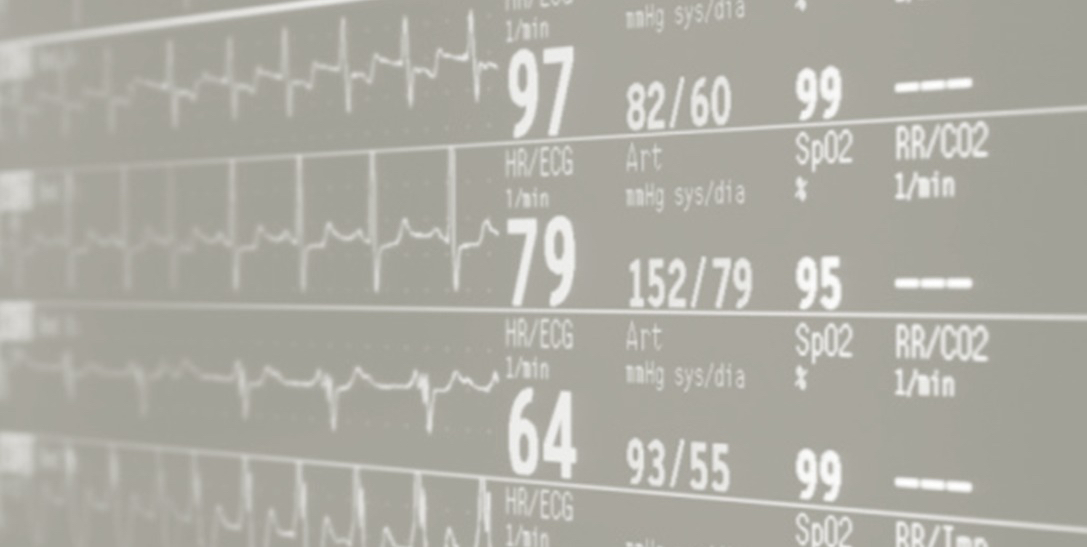
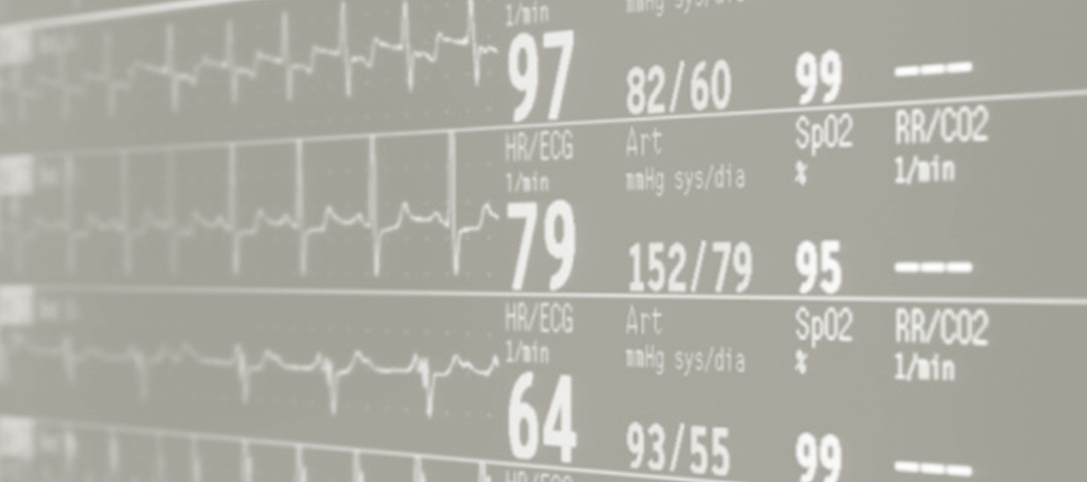
edit images height and adjust footer

diff --git a/index.html b/index.html
@@ -16,128 +16,130 @@
         <link rel="stylesheet" href="https://cdnjs.cloudflare.com/ajax/libs/font-awesome/4.7.0/css/font-awesome.min.css">
     </head>
     <body>
-        <div id="header-right" class="login">
-            <a href="http://optimizitmedical.com/Users/Account/LogOn?ReturnUrl=%2F">Customer Login</a>
-        </div>
-        <div id="header-left" class="login">
-            <a href="https://online.optimizitmedical.com/Account/LogOn?ReturnUrl=%2f">Staff Login</a>
-        </div>
-        <div id="header">
-            <a href="/"><img src="images/logo.svg" class="image-responsive center-block" alt="logo"></a>
-        </div>
-        <nav id="navbar">
-            <div class="navbar-header">
-                <button type="button" class="navbar-toggle" data-toggle="collapse" data-target="#menu-navbar">
-                    <span class="icon-bar"></span>
-                    <span class="icon-bar"></span>
-                    <span class="icon-bar"></span>                        
-                </button>
+        <div id="wrapper">
+            <div id="header-right" class="login">
+                <a href="http://optimizitmedical.com/Users/Account/LogOn?ReturnUrl=%2F">Customer Login</a>
             </div>
-            <div id="menu-navbar" class="collapse navbar-collapse">
-                <ul id="navbar-list" class="nav nav-justified">
-                    <li><a id="home-link" class="nav-links"  tabindex="-1">Home</a></li>
-                    <li><a id="services-link" class="nav-links" tabindex="-1">Services</a></li>
-                    <li><a id="about-link" class="nav-links" tabindex="-1">About</a></li>
-                    <li><a id="contact-link" class="nav-links" tabindex="-1">Contact</a></li>
-                </ul>
+            <div id="header-left" class="login">
+                <a href="https://online.optimizitmedical.com/Account/LogOn?ReturnUrl=%2f">Staff Login</a>
             </div>
-        </nav>
-        <div class="slideshow-container">
-            <div id="carousel" class="carousel slide" data="carousel" data-interval="false">
-                <div class="carousel-inner">
-                    <div class="item active">
-                        <div class="section">
-                            <h1>WHAT WE OFFER</h1>
-                            <div class="container">
-                                <div class="col-xs-12">
-                                    <p>Welcome to Optimizit Medical Services. We provide biomedical services to a range of clinics and centres. Our services include:</p>
-                                    <ul id="home-list">
-                                        <li>Annual PM and Calibrations</li>
-                                        <li>Device Accreditation &amp; Acceptance</li>
-                                        <li>Service Calls</li>
-                                        <li>On-Site Consultation</li>
-                                        <li>Staff In-Service</li>
-                                    </ul>
-                                    <p>If you have any questions regarding what we do, please <span id="contact-inline-link">contact us</span>.</p>
-                                </div>
-                            </div>
-                        </div>
-                        <img src="images/Home.jpg" alt="Home">
-                    </div>
-                    <div class="item">
-                        <div id="services" class="section">
-                            <h1>SERVICES</h1>
-                            <div class="container">
-                                <div class="col-xs-12 col-md-6 service-block service-block-left">
-                                    <img src="images/clipboard.svg" class="service-icon" alt="consultation">
-                                    <h3>CONSULTATION &amp; EVALUATION</h3>
-                                    <p>Our team has knowledge and experiences throughout the medical field; from ER equipment to OR equipment, to ICU equipment and more. We offer our expertise before we perform any work. We assess each situation differently and communicate with you every step of the way.</p>
-                                </div>
-                                <div class="col-xs-12 col-md-6 service-block service-block-right">
-                                    <img src="images/screw.svg" class="service-icon" alt="consultation">
-                                    <h3>PREVENTATIVE MAINTENANCE &amp; EQUIPMENT REPAIR</h3>
-                                    <p>Our Biomedical Engineering Technologists are trained in Preventative Maintenance and Corrective Work. Preventative Maintenance can be annual device inspection and/or new device acceptance. Corrective work is fancy for 'repair'. 
-                                        <br /> <br />
-                                        In emergency and work cases where you need a device accepted or repaired, we will do what we can to get the job done as fast and as safe as possible.</p>
-                                </div>
-                            </div>
-                        </div>
-                        <img src="images/Services.jpeg" alt="Services">
-                    </div>
-                    <div class="item">
-                        <div class="section">
-                            <h1>ABOUT US</h1>
-                            <div class="container">
-                                <div class="col-xs-12">
-                                    <p>Established in 1998, Optimizit Medical has been providing Biomedical Engineering services to medical clinics throughout Western Canada.</p>
-                                </div>
-                            </div>
-                        </div>
-                        <img src="images/About.jpeg" alt="About">
-                    </div>
-                    <div class="item">
-                        <div id="contact" class="section">
-                            <h1>GET IN TOUCH</h1>
-                            <div class="container">
-                                <div class="col-xs-12 col-md-6">
-                                    <div id="contact-info">
-                                        <h2><span class="contact-label">CALL US:</span><br /> &emsp;&emsp;<a href="tel: 1-604-992-1147" id="link-no-decoration">+1 - 778 - 385 - 6264</a>
-                                        </h2>
-                                        <h2>
-                                            <span class="contact-label">GENERAL INQUIRIES:</span><br /> &emsp;&emsp; <a href="mailto:info@optimizitmedical.com ">info@optimizitmedical.com</a>
-                                        </h2>
-                                        <h2>
-                                            <span class="contact-label">SERVICE INQUIRIES:</span><br /> &emsp;&emsp; <a href="mailto:service@optimizitmedical.com ">service@optimizitmedical.com</a>
-                                        </h2>
+            <div id="header">
+                <a href="/"><img src="images/logo.svg" class="image-responsive center-block" alt="logo"></a>
+            </div>
+            <nav id="navbar">
+                <div class="navbar-header">
+                    <button type="button" class="navbar-toggle" data-toggle="collapse" data-target="#menu-navbar">
+                        <span class="icon-bar"></span>
+                        <span class="icon-bar"></span>
+                        <span class="icon-bar"></span>                        
+                    </button>
+                </div>
+                <div id="menu-navbar" class="collapse navbar-collapse">
+                    <ul id="navbar-list" class="nav nav-justified">
+                        <li><a id="home-link" class="nav-links"  tabindex="-1">Home</a></li>
+                        <li><a id="services-link" class="nav-links" tabindex="-1">Services</a></li>
+                        <li><a id="about-link" class="nav-links" tabindex="-1">About</a></li>
+                        <li><a id="contact-link" class="nav-links" tabindex="-1">Contact</a></li>
+                    </ul>
+                </div>
+            </nav>
+            <div class="slideshow-container">
+                <div id="carousel" class="carousel slide" data="carousel" data-interval="false">
+                    <div class="carousel-inner">
+                        <div class="item active">
+                            <div class="section">
+                                <h1>WHAT WE OFFER</h1>
+                                <div class="container">
+                                    <div class="col-xs-12">
+                                        <p>Welcome to Optimizit Medical Services. We provide biomedical services to a range of clinics and centres. Our services include:</p>
+                                        <ul id="home-list">
+                                            <li>Annual PM and Calibrations</li>
+                                            <li>Device Accreditation &amp; Acceptance</li>
+                                            <li>Service Calls</li>
+                                            <li>On-Site Consultation</li>
+                                            <li>Staff In-Service</li>
+                                        </ul>
+                                        <p>If you have any questions regarding what we do, please <span id="contact-inline-link">contact us</span>.</p>
                                     </div>
                                 </div>
-                                <div class="col-xs-12 col-md-6">
-                                    <form action="//flipmail.co/api/APKdq4Se8T40ve8Sux6v" method="post">
-                                        <div class="form-group">
-                                            <input type="text" class="form-control" id="InputName" name="name" placeholder="Name" required>
-                                        </div>
-                                        <div class="form-group">
-                                            <input type="email" class="form-control" id="InputEmail" name="email" placeholder="Email" required>
-                                            <input type="hidden" name="_replyto" value="%email">
-                                            <input type="hidden" name="_after" value="confirmation.html">
-                                            <input type="text" name="_honey" value="" style="display:none">
-                                        </div>
-                                        <div class="form-group">
-                                            <input type="text" class="form-control" id="InputSubject" name="_subject" placeholder="Subject" required>
-                                        </div>
-                                        <div class="form-group">
-                                            <textarea class="form-control" rows="3" id="InputMessage" name="message" placeholder="Type your message here" required></textarea >
-                                        </div>
-                                        <button type="submit" id="submit-button">SUBMIT</button>
-                                    </form>
+                            </div>
+                            <img src="images/Home.jpg" alt="Home">
+                        </div>
+                        <div class="item">
+                            <div id="services" class="section">
+                                <h1>SERVICES</h1>
+                                <div class="container">
+                                    <div class="col-xs-12 col-md-6 service-block service-block-left">
+                                        <img src="images/clipboard.svg" class="service-icon" alt="consultation">
+                                        <h3>CONSULTATION &amp; EVALUATION</h3>
+                                        <p>Our team has knowledge and experiences throughout the medical field; from ER equipment to OR equipment, to ICU equipment and more. We offer our expertise before we perform any work. We assess each situation differently and communicate with you every step of the way.</p>
+                                    </div>
+                                    <div class="col-xs-12 col-md-6 service-block service-block-right">
+                                        <img src="images/screw.svg" class="service-icon" alt="consultation">
+                                        <h3>PREVENTATIVE MAINTENANCE &amp; EQUIPMENT REPAIR</h3>
+                                        <p>Our Biomedical Engineering Technologists are trained in Preventative Maintenance and Corrective Work. Preventative Maintenance can be annual device inspection and/or new device acceptance. Corrective work is fancy for 'repair'. 
+                                            <br /> <br />
+                                            In emergency and work cases where you need a device accepted or repaired, we will do what we can to get the job done as fast and as safe as possible.</p>
+                                    </div>
                                 </div>
                             </div>
+                            <img src="images/Services.jpg" alt="Services">
                         </div>
-                        <img src="images/ContactUs.jpeg" alt="Contact Us">
+                        <div class="item">
+                            <div class="section">
+                                <h1>ABOUT US</h1>
+                                <div class="container">
+                                    <div class="col-xs-12">
+                                        <p>Established in 1998, Optimizit Medical has been providing Biomedical Engineering services to medical clinics throughout Western Canada.</p>
+                                    </div>
+                                </div>
+                            </div>
+                            <img src="images/About.jpg" alt="About">
+                        </div>
+                        <div class="item">
+                            <div id="contact" class="section">
+                                <h1>GET IN TOUCH</h1>
+                                <div class="container">
+                                    <div class="col-xs-12 col-md-6">
+                                        <div id="contact-info">
+                                            <h2><span class="contact-label">CALL US:</span><br /> &emsp;&emsp;<a href="tel: 1-604-992-1147" id="link-no-decoration">+1 - 778 - 385 - 6264</a>
+                                            </h2>
+                                            <h2>
+                                                <span class="contact-label">GENERAL INQUIRIES:</span><br /> &emsp;&emsp; <a href="mailto:info@optimizitmedical.com ">info@optimizitmedical.com</a>
+                                            </h2>
+                                            <h2>
+                                                <span class="contact-label">SERVICE INQUIRIES:</span><br /> &emsp;&emsp; <a href="mailto:service@optimizitmedical.com ">service@optimizitmedical.com</a>
+                                            </h2>
+                                        </div>
+                                    </div>
+                                    <div class="col-xs-12 col-md-6">
+                                        <form action="//flipmail.co/api/APKdq4Se8T40ve8Sux6v" method="post">
+                                            <div class="form-group">
+                                                <input type="text" class="form-control" id="InputName" name="name" placeholder="Name" required>
+                                            </div>
+                                            <div class="form-group">
+                                                <input type="email" class="form-control" id="InputEmail" name="email" placeholder="Email" required>
+                                                <input type="hidden" name="_replyto" value="%email">
+                                                <input type="hidden" name="_after" value="confirmation.html">
+                                                <input type="text" name="_honey" value="" style="display:none">
+                                            </div>
+                                            <div class="form-group">
+                                                <input type="text" class="form-control" id="InputSubject" name="_subject" placeholder="Subject" required>
+                                            </div>
+                                            <div class="form-group">
+                                                <textarea class="form-control" rows="3" id="InputMessage" name="message" placeholder="Type your message here" required></textarea >
+                                            </div>
+                                            <button type="submit" id="submit-button">SUBMIT</button>
+                                        </form>
+                                    </div>
+                                </div>
+                            </div>
+                            <img src="images/ContactUs.jpeg" alt="Contact Us">
+                        </div>
                     </div>
                 </div>
             </div>
-        </div>    
+        </div>
         <footer class="footer">
             <ul>
                 <li><a id="load_privacy">Privacy Policy</a></li>

diff --git a/style.css b/style.css
@@ -34,7 +34,8 @@ a {
 }
 #header img {
     vertical-align: middle;
-    max-height: 16em;
+    max-height: 15em;
+    width: 50%;
 }
 #navbar {
     margin: 0 auto;
@@ -176,13 +177,14 @@ button {
     background: #F9F9F9;
     border: none;
 }
+#wrapper {
+    min-height: calc(100vh - 3.5rem);
+}
 .footer {
-    position: absolute;
-    bottom: 0;
     width: 100%;
     box-shadow: 0px -2px 2px 0px rgba(0,0,0,0.18);
-    height: 3.5em;
-    line-height: 3.5em;
+    height: 3.5rem;
+    line-height: 3.5rem;
     background: #F9F9F9;   
 }
 .footer ul {
@@ -293,6 +295,10 @@ button {
     #navbar {
         width: 95%;
     }
+    #header img {
+    vertical-align: middle;
+    max-height: 15em;
+}
 }
 @media (min-width: 1200px) {
     .carousel .item > img {

diff --git a/js/script.js b/js/script.js
@@ -7,6 +7,7 @@ $(document).ready(function () {
         $("#carousel").carousel(index);
         $(".selected").removeClass("selected");
         $(this.children[0]).addClass("selected");
+        $(".navbar-toggle").click()
     });
 
     $("#left-carousel").click(function() {
